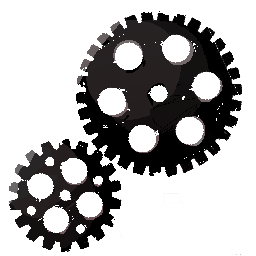
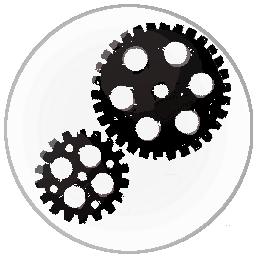
Update

diff --git a/SourceCode/TestMap.cpp b/SourceCode/TestMap.cpp
@@ -12,6 +12,7 @@ extern int curScene;
 extern bool isPause;
 
 int cur_stage_level = 0;
+std::unique_ptr<GameLib::Sprite> gomispr;
 
 void test_init()
 {
@@ -20,6 +21,8 @@ void test_init()
     t_state = 0;
     t_timer = 0;
     Transition::Instance()->Initialize(sprite_load(L"./Data/Images/transition.png"), { 0, 0 }, { 1.75f, 1.75f }, { 0, 0 }, { 1238, 2129 });
+    if (!gomispr)
+        gomispr = std::unique_ptr<GameLib::Sprite>(sprite_load(L"./Data/Images/gomi.png"));
 }
 
 void test_update()
@@ -28,8 +31,8 @@ void test_update()
     {
     case 0:
 
-        if (curScene - 2 > cur_stage_level)
-            cur_stage_level = curScene - 2;
+        if (curScene - 1 > cur_stage_level)
+            cur_stage_level = curScene - 1;
 
         if (Transition::Instance()->state) {
             Transition::Instance()->Update();
@@ -41,8 +44,8 @@ void test_update()
         UI_GP_Manage::GetInstance()->Init();
 
 
-        map_init(GETFOLDERNAME((curScene - 1)));
-        player_init(GETFOLDERNAME((curScene - 1)));
+        map_init(GETFOLDERNAME((curScene)));
+        player_init(GETFOLDERNAME((curScene)));
 
 
         Wind_Effect::GetInstance()->Init();
@@ -73,7 +76,8 @@ void test_render()
 {
     GameLib::clear(0, 0, 0);
     //test.Draw();
-
+    if (curScene == 0)
+        sprite_render(gomispr.get(), 0, 972, 1, 1, 0, 0, 2052, 972, 0, 972, 0, 1, 1, 1, 1);
 
 
     map_render();

diff --git a/SourceCode/main.cpp b/SourceCode/main.cpp
@@ -2,7 +2,7 @@
 #include "all.h"
 
 int curScene = SCENES::NONE;
-int nextScene = SCENES::STAGE_SELECT;
+int nextScene = SCENES::TITLE;
 #include "TestMap.h"
 #include "Stage Select.h"
 // WinMain
@@ -34,6 +34,7 @@ int APIENTRY wWinMain(HINSTANCE, HINSTANCE, LPWSTR, int)
 			switch (nextScene)
 			{
 			case SCENES::TITLE:
+				test_init();
 				break;
 			case SCENES::STAGE_SELECT:
 				stSel_Init();
@@ -58,7 +59,11 @@ int APIENTRY wWinMain(HINSTANCE, HINSTANCE, LPWSTR, int)
 		// Rendering and updating according to the current scene
 		switch (curScene)
 		{
-		case SCENES::TITLE: break;
+		case SCENES::TITLE: 
+			test_update();
+			test_render(); 
+		break;
+
 		case SCENES::STAGE_SELECT:
 			stSel_Update();
 			stSel_Render();

diff --git a/SourceCode/Stage Select.cpp b/SourceCode/Stage Select.cpp
@@ -76,7 +76,7 @@ void stSel_Update()
         ++timer_ss;
         for (int i = 0; i < SIZEOF_ARRAY(test); i++) {
             if (CursorSelect(VECTOR2{ (float)GameLib::input::getCursorPosX(), (float)GameLib::input::getCursorPosY() }, &test[i]) && (GameLib::input::TRG_RELEASE(0) & GameLib::input::PAD_START)) {
-                nextScene = (i + 2);
+                nextScene = (i + 1);
                 break;
             }
         }

diff --git a/SourceCode/Player.cpp b/SourceCode/Player.cpp
@@ -259,7 +259,7 @@ void Player::Update()
         for (int x = 0; x < MAP_X; ++x)
         {
             if (HitGoal(this, &Collision)) {
-                Transition::Instance()->Activate(((nextScene - 1) == 3));
+                Transition::Instance()->Activate(((nextScene) == 3));
                 nextScene++;
                 return;
             }

diff --git a/SourceCode/Map.cpp b/SourceCode/Map.cpp
@@ -427,12 +427,12 @@ void map_render()
 {
     //Collision.Draw();
     //WindM.Draw();
-    if ((curScene - 1) != 7)
+    if ((curScene ) != 7)
         ShutterManage::GetInstance()->Render();
     BG.Draw();
     SpriteTexture.Draw();
 
-    if ((curScene - 1) == 7)
+    if ((curScene ) == 7)
         ShutterManage::GetInstance()->Render();
 
 

diff --git a/SourceCode/Switch_Manage.cpp b/SourceCode/Switch_Manage.cpp
@@ -212,7 +212,7 @@ void ShutterManage::Render() {
 		int offset_y = it.index  / 14;
 
 
-		if (curScene - 1 == 7) {
+		if (curScene == 7) {
 			if ((it.position.y >= 5 * 54 && it.position.y <= 6 * 54) || it.position.y < 54) continue;
 		}
 

diff --git a/SourceCode/common.h b/SourceCode/common.h
@@ -14,8 +14,8 @@ extern int curScene, nextScene;
 enum SCENES
 {
     NONE =  -1, 
-    TITLE, 
-    STAGE_SELECT, 
+    STAGE_SELECT = 10,
+    TITLE = 0,
     STAGE1, 
     STAGE2, 
     STAGE3, 
